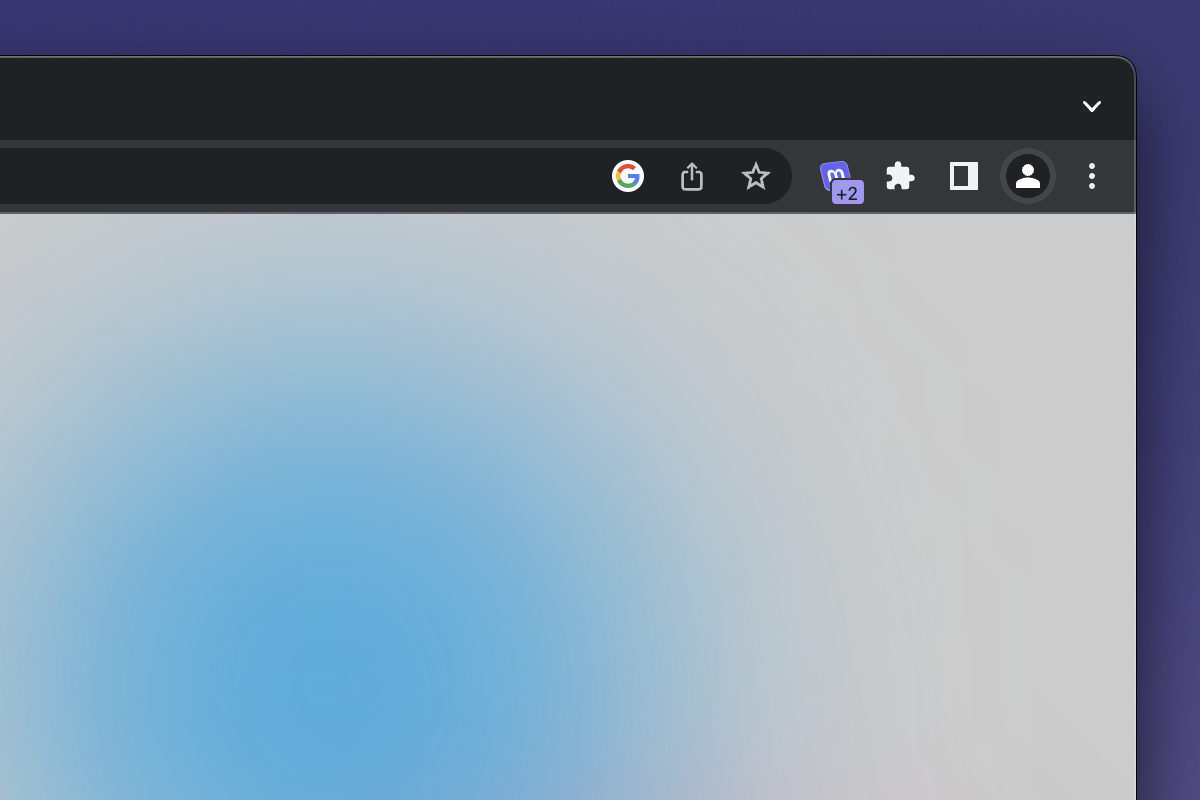
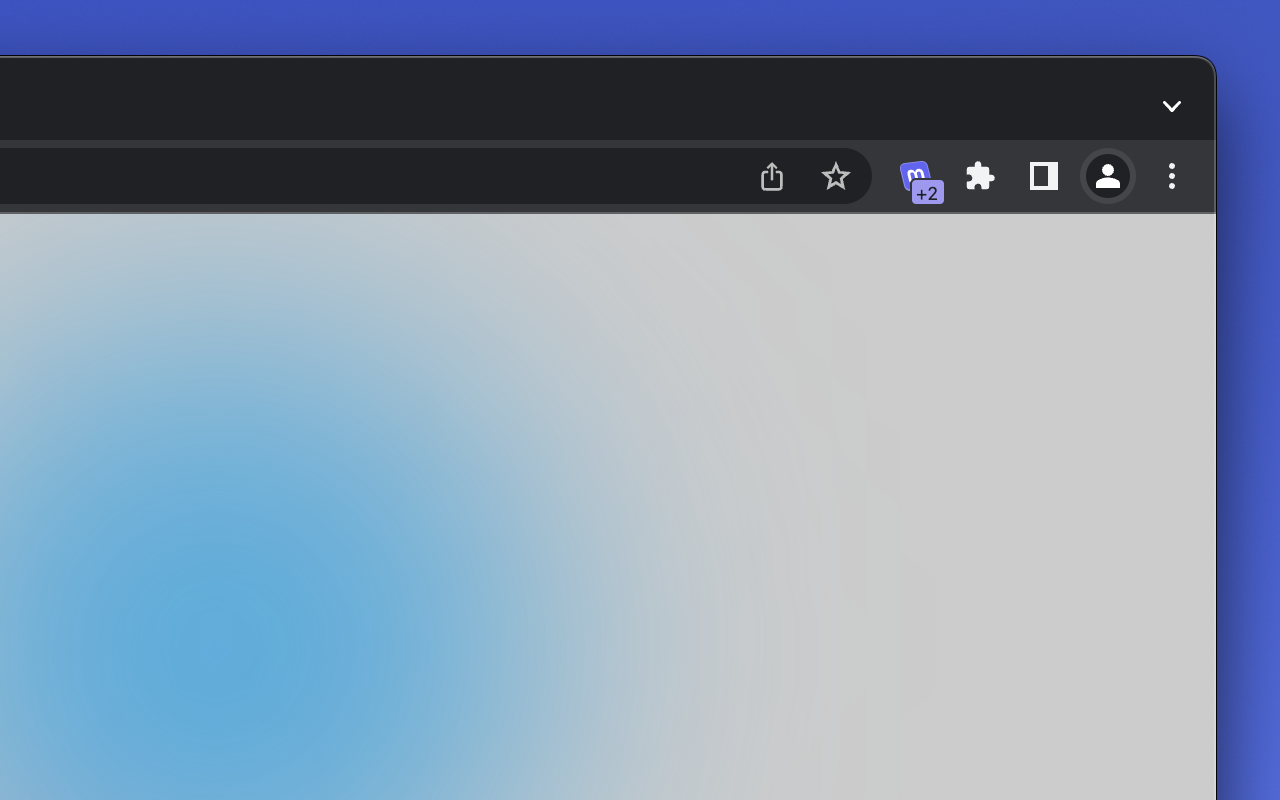
add promo material

Changed region(s): [[0.0, 0.0, 1.0, 1.0], [0.3083, 0.5312, 0.6167, 1.0], [0.0, 0.4375, 0.1542, 1.0]]

diff --git a/api/pages/index.tsx b/api/pages/index.tsx
@@ -5,7 +5,7 @@ import chrome from "../public/chrome.png";
 import firefox from "../public/firefox.png";
 import safari from "../public/safari.png";
 import screen1 from "../public/screen1.png";
-import screen2 from "../public/screen2.png";
+import screen3 from "../public/screen3.png";
 import Head from "next/head";
 
 import { VERSION } from "../../constants";
@@ -173,7 +173,7 @@ export default function Page() {
 
         <Image
           quality={100}
-          src={screen2}
+          src={screen3}
           alt=""
           width={1296}
           className="mt-5 w-full max-w-xl"

diff --git a/constants.ts b/constants.ts
@@ -1,1 +1,1 @@
-export const VERSION = "2023.5"
+export const VERSION = "2023.6"
